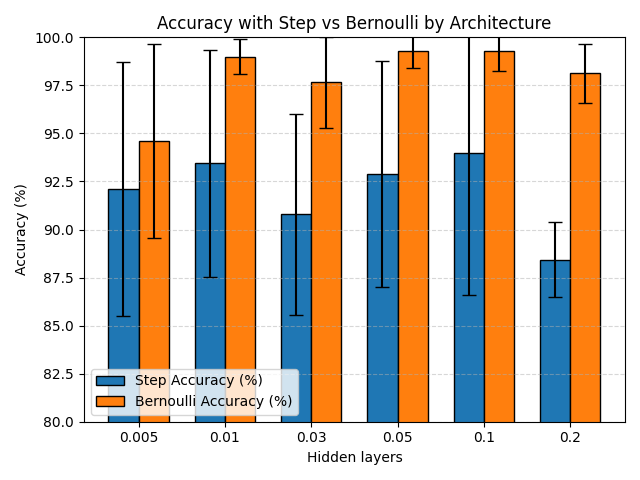
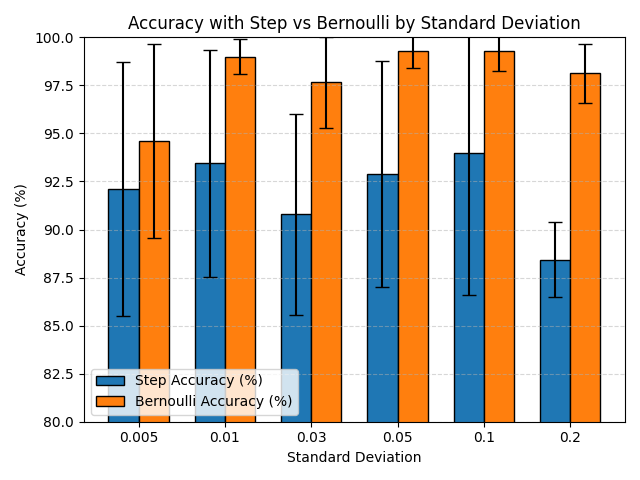
adding test.py

Changed region(s): [[0.1875, 0.0312, 0.9062, 0.0625], [0.4375, 0.9375, 0.6562, 0.9688]]

diff --git a/production/main.py b/production/main.py
@@ -691,6 +691,167 @@ def output_circuit(weights: Network, verbose=True, super_verbose=False
     print(f"Max fan-in: {max(fan_ins)}\nAverage fan-in: {round(sum(fan_ins)/len(fan_ins), 2)}")
     return circuits[-true_arch[-1]:]
 
+def output_circuit_inefficient_random(weights: Network, verbose=True, super_verbose=False
+                ) -> List[str]:
+    """
+    Outputs the learnt circuit, and also prints some useful data about the
+    network
+    
+    Parameters
+    weights - the internal representation of the circuit as learnt
+    verbose - a flag for printing extra info
+    super_verbose - a flag for even more debug info
+    
+    Returns
+    circuits[-arch[-1]:] - a list of the circuit learnt for each output neuron
+    """
+    connecteds: List[List[int]] = [[] for _ in range(ins)]
+    if extra_layers:
+        circuits = [chr(ord('A')+i) for i in range(ins)]
+        for layer in extra_layers:
+            if layer[0] == 1:
+                extras = ["¬"+circ for circ in circuits]
+                connecteds += [[i] for i in range(len(connecteds))]
+            else:
+                extras = []
+            for k in range(max(2, layer[0]), layer[1]+1):
+                for comb in itertools.combinations(circuits, k):
+                    add = True
+                    for gate in comb:
+                        if "¬"+gate in comb:
+                            add = False
+                    if add:
+                        extras.append("¬("+".".join(comb)+")")
+                        new_con = []
+                        for gate in comb:
+                            new_con.append(circuits.index(gate))
+                        connecteds.append(new_con)
+            circuits += extras
+        if add_img_or_custom == 'a':
+            circuits, connecteds = adders_util.update_circuits(
+                add_adder_help, circuits, with_nots, connecteds)
+    else:
+        circuits = [chr(ord('A')+i) for i in range(arch[0])]
+    gates = [[[] for _ in range(arch[0])]]
+    c2i = dict([(x,i) for i,x in enumerate(circuits)])
+    indices = dict([(i,i) for i in range(arch[0])])
+    index2gate = dict([(i, (0,i)) for i in range(arch[0])])
+    empties = []
+    added = arch[0] - 1
+    used = set()
+    if use_surr:
+        sum_arch = []
+        sums = 0
+        for layer in true_arch:
+            sum_arch.append(sums)
+            sums += layer
+    for layer_i in range(i_0):
+        gates.append([])
+        gate_i1 = layer_i+1
+        gate_i2 = 0
+        if use_surr:
+            if super_verbose:
+                print("surrogates")
+            if layer_i < len(surr_arr):
+                for neuron_i in range(len(surr_arr[layer_i])):
+                    connected: List[Tuple[int, str]] = []
+                    for inner_layer_i, weight_i in surr_arr[layer_i][neuron_i]:
+                        i = sum_arch[inner_layer_i] + int(weight_i)
+                        connected.append((indices[i], circuits[indices[i]]))
+                    added += 1
+                    connected = sorted(connected)
+                    connecteds.append([node[0] for node in connected])
+                    i = len(connecteds)-1
+                    if super_verbose:
+                        print(i, connecteds[i])
+                    if len(connected) == 1:
+                        node = '¬' + connected[0][1]
+                        if len(node) > 2:
+                            if node[:3] == "¬¬¬":
+                                node = node[2:]
+                    else:
+                        node = ('¬(' +
+                                '.'.join([element[1] for element in connected])
+                                + ')')
+                    circuits.append(node)
+                    indices[added] = added
+                    gates[-1].append(
+                        [index2gate[element[0]] for element in connected])
+                    index2gate[added] = (gate_i1, gate_i2)
+                    gate_i2 += 1
+                    if layer_i == i_0-1:
+                        for prev_node in connected:
+                            used.add(prev_node[0])
+                        used.add(added)
+            if super_verbose:
+                print("natties")
+        for neuron_i in range(arch[layer_i+1]):
+            i = 0
+            connected: List[Tuple[int, str]] = []
+            for inner_layer_i in range(layer_i+1):
+                for weight_i in range(true_arch[inner_layer_i]):
+                    if (bern(weights[layer_i][neuron_i,inner_layer_i,weight_i])
+                        and indices[i] not in empties):
+                        connected.append((indices[i], circuits[indices[i]]))
+                    i += 1
+            added += 1
+            sorted_connected = sorted(connected)
+            connecteds.append([node[0] for node in sorted_connected])
+            i = len(connecteds)-1
+            if super_verbose:
+                print(i, connecteds[i])
+            if not sorted_connected:
+                empties.append(added)
+                indices[added] = added
+                circuits.append('_')
+            else:
+                if len(sorted_connected) == 1:
+                    node = '¬' + sorted_connected[0][1]
+                else:
+                    node = '¬(' + '.'.join(
+                        [element[1] for element in sorted_connected]) + ')'
+                circuits.append(node)
+                indices[added] = added
+                gates[-1].append([index2gate[element[0]]
+                                for element in sorted_connected])
+                index2gate[added] = (gate_i1, gate_i2)
+                gate_i2 += 1
+                if layer_i == i_0-1:
+                    for prev_node in sorted_connected:
+                        used.add(prev_node[0])
+                    used.add(added)
+    queue = list(used)
+    nodes = []
+    while len(queue):
+        node_i = queue.pop(0)
+        nodes.append(node_i)
+        for node_2 in connecteds[node_i]:
+            if node_2 not in used:
+                queue.append(node_2)
+                used.add(node_2)
+    used_list: List[int] = sorted(list(used))
+    if verbose:
+        print(used_list)
+    true_net = {i: connecteds[i] for i in used_list}
+    true_weights = clean_connected(true_net, used_list, true_arch)
+    if super_verbose:
+        print(true_weights)
+    learnt_arch = get_used(used_list, true_arch, verbose)
+    fan_ins = []
+    for node_index in used_list:
+        if node_index >= learnt_arch[0]:
+            fan_ins.append(len(connecteds[node_index]))
+    with open(config["output_file"], "a") as f:
+        for pair in variables.items():
+            f.write(str(pair)+'\n')
+        f.write(f"Without PTO:\nused:\n{learnt_arch}\nout of:\n{true_arch}\n")
+        f.write(f"Max fan-in: {max(fan_ins)}\nAverage fan-in: {sum(fan_ins)/len(fan_ins)}\n")
+        for circ in circuits[-true_arch[-1]:]:
+            f.write(f"{circ}\n")
+    print("used:\n", learnt_arch, "\nout of:\n", true_arch)
+    print(f"Max fan-in: {max(fan_ins)}\nAverage fan-in: {round(sum(fan_ins)/len(fan_ins), 2)}")
+    return circuits[-true_arch[-1]:]
+
 def output_circuit_random(weights: Network, verbose=True, super_verbose=False
                 ) -> List[str]:
     """
@@ -1941,6 +2102,9 @@ def run(timeout=config["timeout"]) -> None:
     print("Took", end_time-start_run_time, "seconds to train.")
     if add_img_or_custom != 'i':
         if cont == 0:
+            circuit = output_circuit_inefficient_random(weights, True, True)
+            [print(circ) for circ in circuit]
+            print("With PTO")
             circuit = output_circuit_random(weights, True, True)
             [print(circ) for circ in circuit]
         else:

diff --git a/production/test_results/initialisation test global.py b/production/test_results/initialisation test global.py
@@ -153,10 +153,10 @@ for dist in ("beta_sampler", "normal_sampler1", "normal_sampler2"):
         plt.bar(x + width/2, bern_means, width, yerr=bern_stds, label='Bernoulli Accuracy (%)', capsize=5, edgecolor='black')
         plt.legend(loc="lower left")
         plt.xticks(x, labels)
-        plt.xlabel("Hidden layers")
+        plt.xlabel("Standard Deviation")
         plt.ylabel("Accuracy (%)")
         plt.ylim(80,100)
-        plt.title(f"Accuracy with Step vs Bernoulli by Architecture ({dist}, {arch})")
+        plt.title(f"Accuracy with Step vs Bernoulli by Standard Deviation")
         plt.grid(axis='y', linestyle='--', alpha=0.5)
 
         plt.tight_layout()
